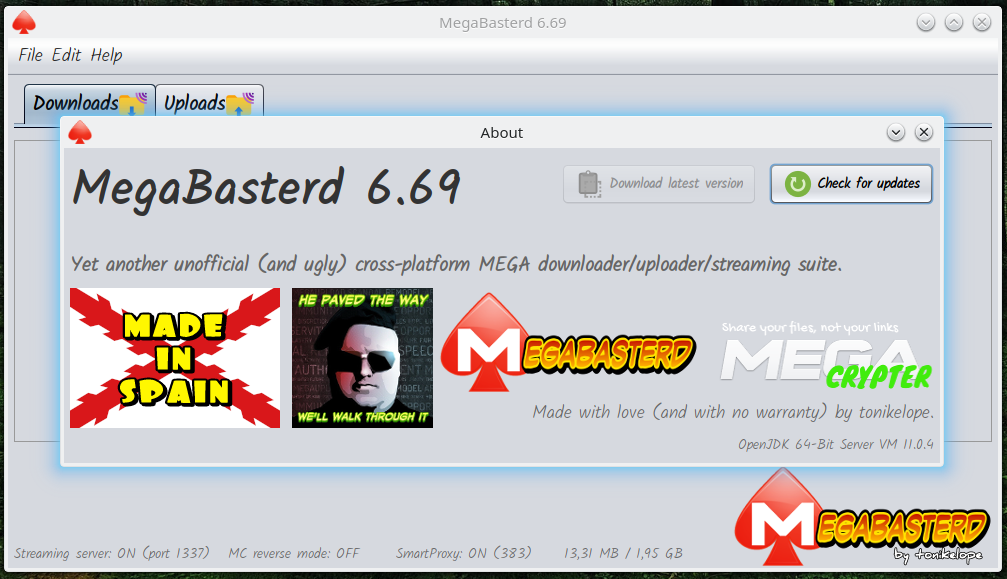
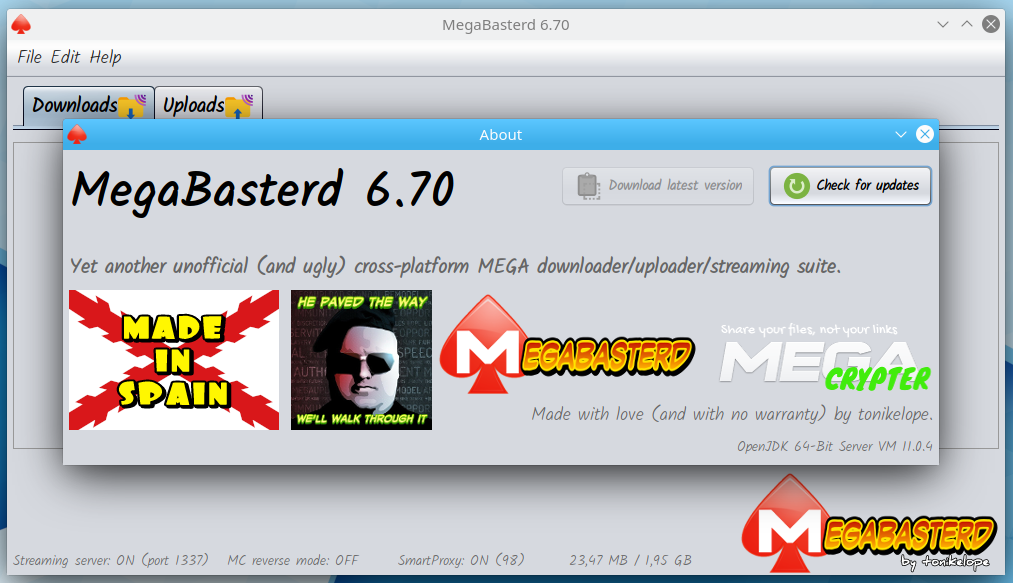
6.70
-FormatBytes very old bug fix
-Drag and drop green border

(cherry picked from commit 97b7f4ecc3d3c38e73f251b01cdf39b49b4d6153)
(cherry picked from commit 98b8d217873a95b408e96ed4fa1a86f65f918b9d)

diff --git a/src/main/java/com/tonikelope/megabasterd/FileGrabberDialog.java b/src/main/java/com/tonikelope/megabasterd/FileGrabberDialog.java
@@ -4,12 +4,21 @@ import static com.tonikelope.megabasterd.MainPanel.*;
 import static com.tonikelope.megabasterd.MiscTools.*;
 import java.awt.Color;
 import java.awt.Dialog;
+import java.awt.datatransfer.DataFlavor;
+import java.awt.datatransfer.UnsupportedFlavorException;
+import java.awt.dnd.DnDConstants;
+import java.awt.dnd.DropTarget;
+import java.awt.dnd.DropTargetDragEvent;
+import java.awt.dnd.DropTargetDropEvent;
+import java.awt.dnd.DropTargetEvent;
 import java.io.File;
+import java.io.IOException;
 import java.util.ArrayList;
 import java.util.Enumeration;
 import java.util.List;
 import java.util.concurrent.Callable;
 import java.util.logging.Logger;
+import javax.swing.BorderFactory;
 import javax.swing.JCheckBox;
 import javax.swing.JComboBox;
 import javax.swing.JComponent;
@@ -24,7 +33,7 @@ import javax.swing.tree.TreeNode;
  *
  * @author tonikelope
  */
-public class FileGrabberDialog extends javax.swing.JDialog implements FileDropHandlerNotifiable {
+public class FileGrabberDialog extends javax.swing.JDialog {
 
     private boolean _upload;
     private final ArrayList<File> _files;
@@ -85,7 +94,60 @@ public class FileGrabberDialog extends javax.swing.JDialog implements FileDropHa
 
         translateLabels(this);
 
-        jPanel1.setTransferHandler(new FileDropHandler(this));
+        jPanel1.setDropTarget(
+                new DropTarget() {
+
+            public boolean canImport(DataFlavor[] flavors) {
+                for (DataFlavor flavor : flavors) {
+                    if (flavor.isFlavorJavaFileListType()) {
+                        return true;
+                    }
+                }
+                return false;
+            }
+
+            @Override
+            public synchronized void drop(DropTargetDropEvent dtde) {
+                changeToNormal();
+                dtde.acceptDrop(DnDConstants.ACTION_COPY_OR_MOVE);
+
+                List<File> files;
+
+                try {
+
+                    if (canImport(dtde.getTransferable().getTransferDataFlavors())) {
+                        files = (List<File>) dtde.getTransferable().getTransferData(DataFlavor.javaFileListFlavor);
+
+                        THREAD_POOL.execute(() -> {
+                            _file_drop_notify(files);
+                        });
+                    }
+
+                } catch (UnsupportedFlavorException | IOException ex) {
+
+                }
+            }
+
+            @Override
+            public synchronized void dragEnter(DropTargetDragEvent dtde) {
+                changeToDrop();
+            }
+
+            @Override
+            public synchronized void dragExit(DropTargetEvent dtde) {
+                changeToNormal();
+            }
+
+            private void changeToDrop() {
+                jPanel1.setBorder(BorderFactory.createLineBorder(Color.green, 5));
+
+            }
+
+            private void changeToNormal() {
+                jPanel1.setBorder(null);
+            }
+        }
+        );
 
         _total_space = 0L;
         _base_path = null;
@@ -102,7 +164,7 @@ public class FileGrabberDialog extends javax.swing.JDialog implements FileDropHa
         THREAD_POOL.execute(() -> {
             if (_drag_drop_files != null) {
 
-                file_drop_notify(_drag_drop_files);
+                _file_drop_notify(_drag_drop_files);
             }
             if (_main_panel.getMega_accounts().size() > 0) {
                 swingInvoke(() -> {
@@ -845,8 +907,7 @@ public class FileGrabberDialog extends javax.swing.JDialog implements FileDropHa
     // End of variables declaration//GEN-END:variables
     private static final Logger LOG = Logger.getLogger(FileGrabberDialog.class.getName());
 
-    @Override
-    public void file_drop_notify(List<File> files) {
+    private void _file_drop_notify(List<File> files) {
 
         swingInvoke(() -> {
             add_files_button.setEnabled(false);

diff --git a/src/main/java/com/tonikelope/megabasterd/MainPanelView.java b/src/main/java/com/tonikelope/megabasterd/MainPanelView.java
@@ -6,6 +6,13 @@ import static com.tonikelope.megabasterd.MainPanel.*;
 import static com.tonikelope.megabasterd.MiscTools.*;
 import java.awt.Color;
 import java.awt.Dimension;
+import java.awt.datatransfer.DataFlavor;
+import java.awt.datatransfer.UnsupportedFlavorException;
+import java.awt.dnd.DnDConstants;
+import java.awt.dnd.DropTarget;
+import java.awt.dnd.DropTargetDragEvent;
+import java.awt.dnd.DropTargetDropEvent;
+import java.awt.dnd.DropTargetEvent;
 import java.awt.event.WindowEvent;
 import static java.awt.event.WindowEvent.WINDOW_CLOSING;
 import java.io.File;
@@ -24,6 +31,7 @@ import java.util.UUID;
 import java.util.logging.Level;
 import static java.util.logging.Level.SEVERE;
 import java.util.logging.Logger;
+import javax.swing.BorderFactory;
 import javax.swing.ImageIcon;
 import javax.swing.JButton;
 import javax.swing.JCheckBoxMenuItem;
@@ -43,7 +51,7 @@ import javax.swing.JTabbedPane;
  *
  * @author tonikelope
  */
-public final class MainPanelView extends javax.swing.JFrame implements FileDropHandlerNotifiable {
+public final class MainPanelView extends javax.swing.JFrame {
 
     private final MainPanel _main_panel;
 
@@ -336,8 +344,7 @@ public final class MainPanelView extends javax.swing.JFrame implements FileDropH
 
     }
 
-    @Override
-    public void file_drop_notify(List<File> files) {
+    private void _file_drop_notify(List<File> files) {
 
         final MainPanelView tthis = this;
 
@@ -404,7 +411,60 @@ public final class MainPanelView extends javax.swing.JFrame implements FileDropH
 
         jTabbedPane1.setTitleAt(0, LabelTranslatorSingleton.getInstance().translate("Downloads"));
         jTabbedPane1.setTitleAt(1, LabelTranslatorSingleton.getInstance().translate("Uploads"));
-        jTabbedPane1.setTransferHandler(new FileDropHandler(this));
+        jTabbedPane1.setDropTarget(new DropTarget() {
+
+            //Thanks to -> https://stackoverflow.com/users/6286694/abika
+            public boolean canImport(DataFlavor[] flavors) {
+                for (DataFlavor flavor : flavors) {
+                    if (flavor.isFlavorJavaFileListType()) {
+                        return true;
+                    }
+                }
+                return false;
+            }
+
+            @Override
+            public synchronized void drop(DropTargetDropEvent dtde) {
+                changeToNormal();
+                dtde.acceptDrop(DnDConstants.ACTION_COPY_OR_MOVE);
+
+                List<File> files;
+
+                try {
+
+                    if (canImport(dtde.getTransferable().getTransferDataFlavors())) {
+                        files = (List<File>) dtde.getTransferable().getTransferData(DataFlavor.javaFileListFlavor);
+
+                        THREAD_POOL.execute(() -> {
+                            _file_drop_notify(files);
+                        });
+                    }
+
+                } catch (UnsupportedFlavorException | IOException ex) {
+
+                }
+            }
+
+            @Override
+            public synchronized void dragEnter(DropTargetDragEvent dtde) {
+                changeToDrop();
+            }
+
+            @Override
+            public synchronized void dragExit(DropTargetEvent dtde) {
+                changeToNormal();
+            }
+
+            private void changeToDrop() {
+                jTabbedPane1.setBorder(BorderFactory.createLineBorder(Color.green, 5));
+
+            }
+
+            private void changeToNormal() {
+                jTabbedPane1.setBorder(null);
+            }
+        }
+        );
 
         String auto_close = selectSettingValue("auto_close");
 

diff --git a/src/main/java/com/tonikelope/megabasterd/MainPanel.java b/src/main/java/com/tonikelope/megabasterd/MainPanel.java
@@ -53,7 +53,7 @@ import javax.swing.UIManager;
  */
 public final class MainPanel {
 
-    public static final String VERSION = "6.69";
+    public static final String VERSION = "6.70";
     public static final int THROTTLE_SLICE_SIZE = 16 * 1024;
     public static final int DEFAULT_BYTE_BUFFER_SIZE = 16 * 1024;
     public static final int STREAMER_PORT = 1337;

diff --git a/src/main/java/com/tonikelope/megabasterd/MiscTools.java b/src/main/java/com/tonikelope/megabasterd/MiscTools.java
@@ -513,7 +513,7 @@ public class MiscTools {
 
         int pow = Math.min((int) ((bytes > 0L ? Math.log(bytes) : 0) / Math.log(1024)), units.length - 1);
 
-        Double bytes_double = (double) bytes / (1 << (10 * pow));
+        Double bytes_double = (double) bytes / (1L << (10 * pow));
 
         DecimalFormat df = new DecimalFormat("#.##");
 
